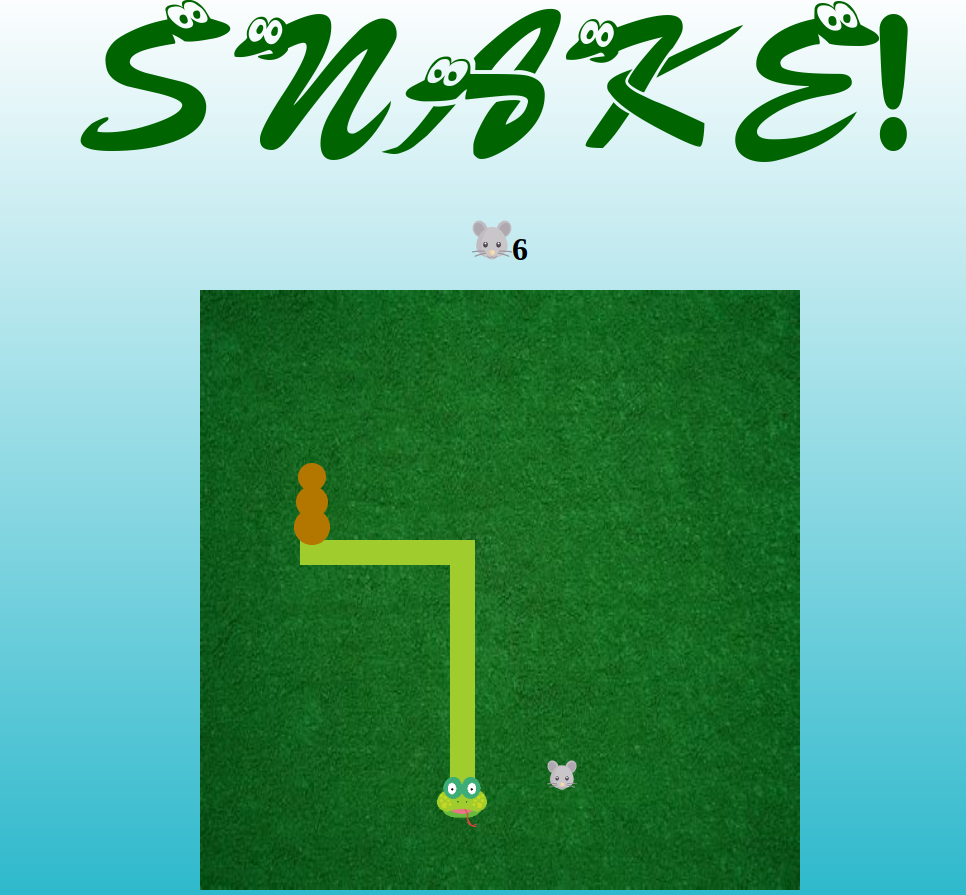
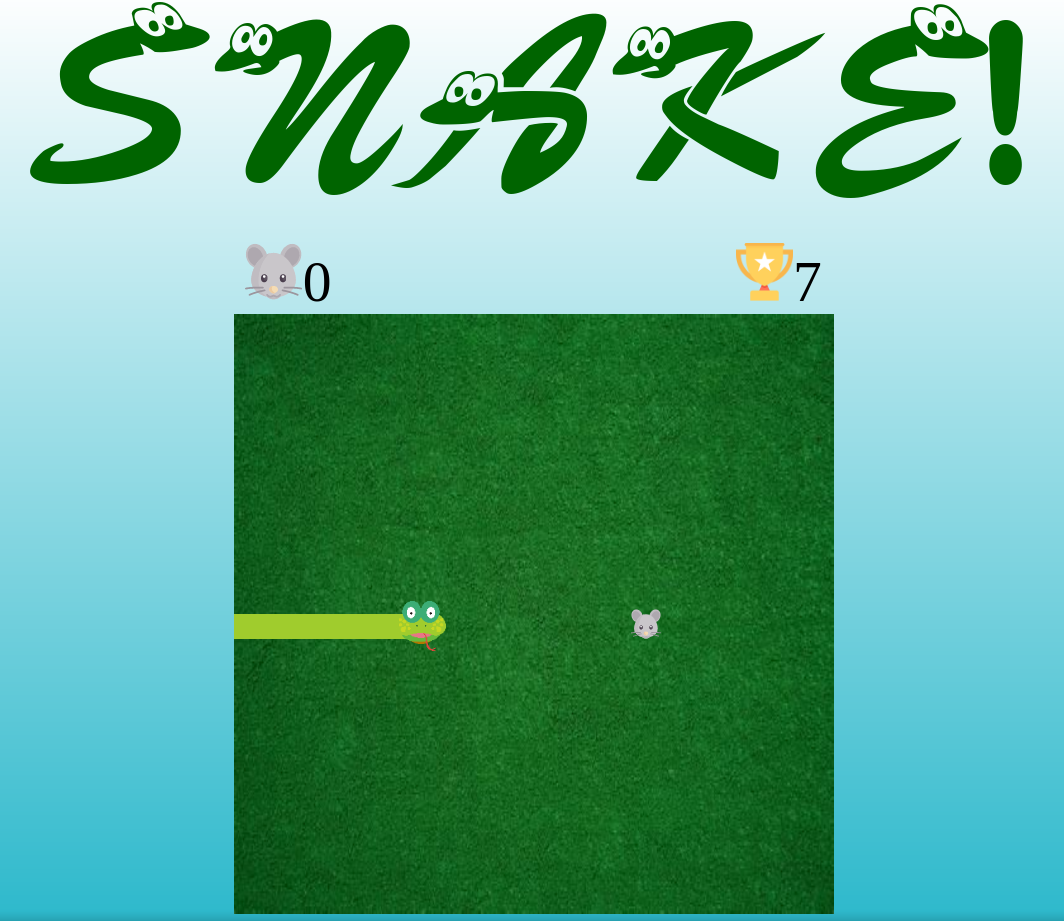
update readme

diff --git a/app.js b/app.js
@@ -6,7 +6,7 @@ canvasBackground.src = "images/grass-background3.jpeg"
 const canvasContext = canvas.getContext("2d")
 
 const GRID_UNIT = 25
-const FRAMES_PER_SECOND = 11
+const FRAMES_PER_SECOND = 1
 const STARTING_BODY_LENGTH = 15
 
 const LEFT = "ArrowLeft"

diff --git a/README.md b/README.md
@@ -10,7 +10,7 @@ Play it [here](https://mikemcgrain.github.io/snake_game/)
 
 <br>
 
-<image src="images/screenshot.png">
+<image src="images/screenshot2.png">
 
 ## Summary
 
